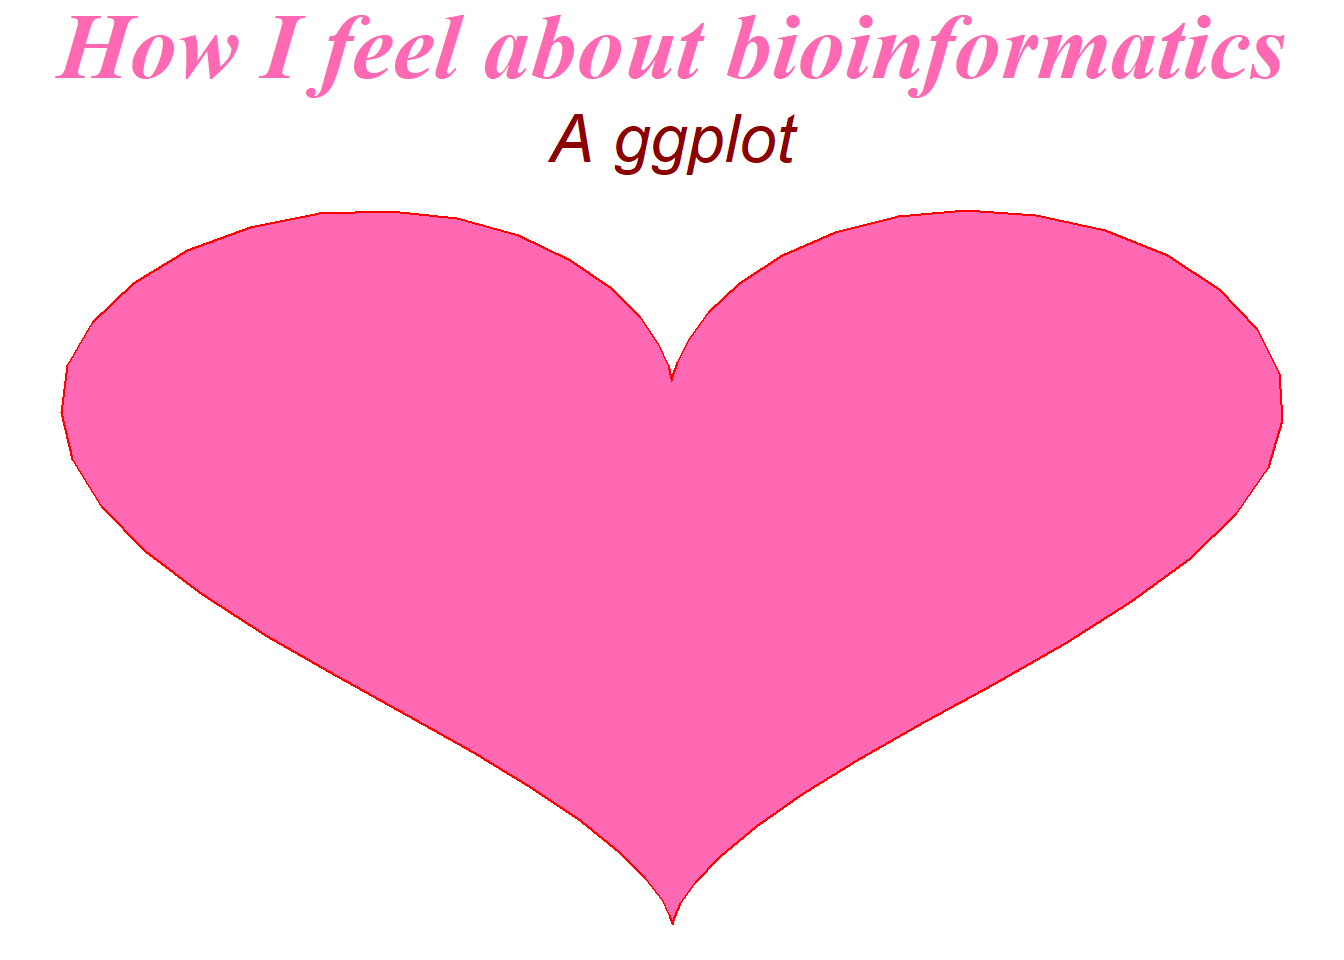
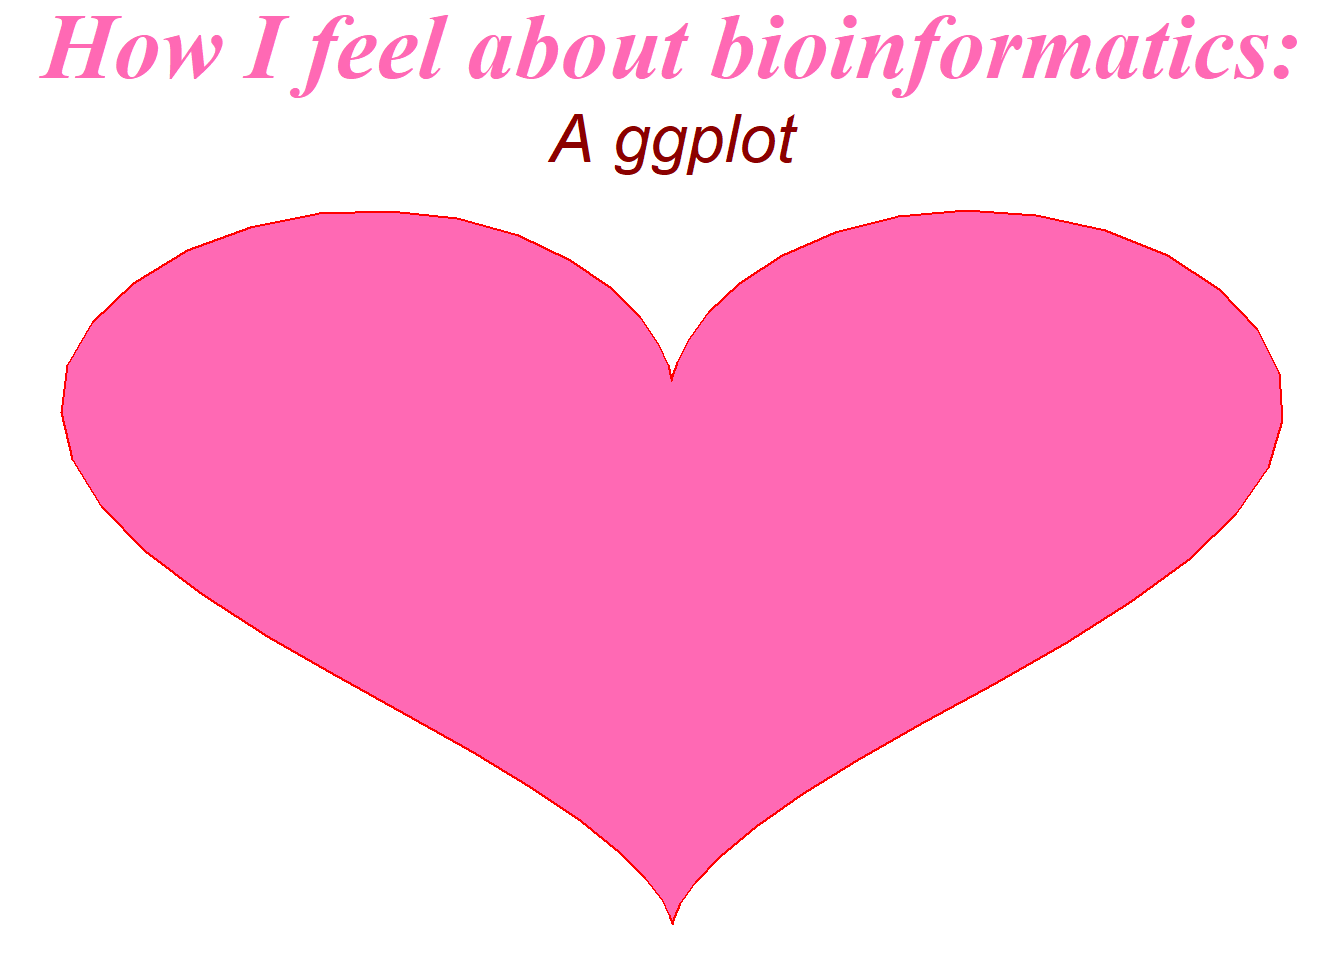
post text added

Changed region(s): [[0.0312, 0.0, 0.9688, 0.125]]

diff --git a/docs/posts/post-with-code/Applied_bioinfo_day5.html b/docs/posts/post-with-code/Applied_bioinfo_day5.html
@@ -196,7 +196,8 @@ pre > code.sourceCode > span > a:first-child::before { text-decoration: underlin
 
 <section id="plotting-with-ggplot2" class="level1">
 <h1>Plotting with ggplot2</h1>
-<p>So, I have my reservations about R, mostly because of habit. While there are libraries for using ggplot2 in python - I have actually tried working with my data directly in R. It is true that ggplot is good, I just need more practice!</p>
+<p>Making a figure can take me hours, just to select nice colours.</p>
+<p>So, I have my reservations about R, mostly because of habit. While there are libraries for using ggplot2 in python, I have actually tried working with my data directly in R. It is true that ggplot is good, I just need more practice. Since my supervisor even has his own R package that he will make work well with my pipeline output, I do need to know how to use it well!</p>
 <div class="cell">
 <details class="code-fold">
 <summary>Code</summary>
@@ -211,7 +212,7 @@ pre > code.sourceCode > span > a:first-child::before { text-decoration: underlin
 <span id="cb1-9"><a href="#cb1-9" aria-hidden="true" tabindex="-1"></a><span class="fu">theme_set</span>(<span class="fu">theme_void</span>())</span>
 <span id="cb1-10"><a href="#cb1-10" aria-hidden="true" tabindex="-1"></a></span>
 <span id="cb1-11"><a href="#cb1-11" aria-hidden="true" tabindex="-1"></a>heart <span class="ot">=</span> <span class="fu">ggplot</span>(dat, <span class="fu">aes</span>(<span class="at">x=</span>x, <span class="at">y=</span>y)) <span class="sc">+</span> <span class="fu">geom_polygon</span>(<span class="at">colour=</span><span class="st">"red"</span>,</span>
-<span id="cb1-12"><a href="#cb1-12" aria-hidden="true" tabindex="-1"></a>       <span class="at">fill=</span><span class="st">"hotpink"</span>) <span class="sc">+</span> <span class="fu">labs</span>(<span class="at">title =</span><span class="st">"How I feel about bioinformatics"</span>, <span class="at">subtitle =</span> <span class="st">"A ggplot"</span>) <span class="sc">+</span></span>
+<span id="cb1-12"><a href="#cb1-12" aria-hidden="true" tabindex="-1"></a>       <span class="at">fill=</span><span class="st">"hotpink"</span>) <span class="sc">+</span> <span class="fu">labs</span>(<span class="at">title =</span><span class="st">"How I feel about bioinformatics:"</span>, <span class="at">subtitle =</span> <span class="st">"A ggplot"</span>) <span class="sc">+</span></span>
 <span id="cb1-13"><a href="#cb1-13" aria-hidden="true" tabindex="-1"></a>       <span class="fu">theme</span>(<span class="at">plot.title =</span> <span class="fu">element_text</span>(<span class="at">family =</span> <span class="st">"serif"</span>, <span class="at">size=</span><span class="dv">35</span>,</span>
 <span id="cb1-14"><a href="#cb1-14" aria-hidden="true" tabindex="-1"></a>       <span class="at">color =</span> <span class="st">"hotpink"</span>, <span class="at">face =</span> <span class="st">"bold.italic"</span>, <span class="at">hjust =</span> <span class="fl">0.5</span>),</span>
 <span id="cb1-15"><a href="#cb1-15" aria-hidden="true" tabindex="-1"></a>       <span class="at">plot.subtitle =</span> <span class="fu">element_text</span>(<span class="at">size =</span> <span class="dv">25</span>, <span class="at">face =</span> <span class="st">"italic"</span>,</span>

diff --git a/docs/index.html b/docs/index.html
@@ -204,7 +204,7 @@ window.Quarto = {
 
 <div class="quarto-listing quarto-listing-container-default" id="listing-listing">
 <div class="list quarto-listing-default">
-<div class="quarto-post image-right" data-index="0" data-categories="Y291cnNlcyUyQ3JlcG9ydCUyQ1IlMkNjb2Rl" data-listing-date-sort="1760047200000" data-listing-file-modified-sort="1760707860519" data-listing-date-modified-sort="NaN" data-listing-reading-time-sort="1" data-listing-word-count-sort="143">
+<div class="quarto-post image-right" data-index="0" data-categories="Y291cnNlcyUyQ3JlcG9ydCUyQ1IlMkNjb2Rl" data-listing-date-sort="1760047200000" data-listing-file-modified-sort="1760708114118" data-listing-date-modified-sort="NaN" data-listing-reading-time-sort="1" data-listing-word-count-sort="182">
 <div class="thumbnail"><a href="./posts/post-with-code/Applied_bioinfo_day5.html" class="no-external">
 
 <p class="card-img-top"><img src="posts\post-with-code\Applied_bioinfo_day5_files\figure-html\Test-1.png"  class="thumbnail-image card-img"/></p>
@@ -226,7 +226,7 @@ window.Quarto = {
 
 </div>
 <div class="delink listing-description"><a href="./posts/post-with-code/Applied_bioinfo_day5.html" class="no-external">
-So, I have my reservations about R, mostly because of habit. While there are libraries for using ggplot2 in python - I have actually tried working with my data directly in…
+Making a figure can take me hours, just to select nice colours.
 </a></div>
 </div>
 <div class="metadata">
